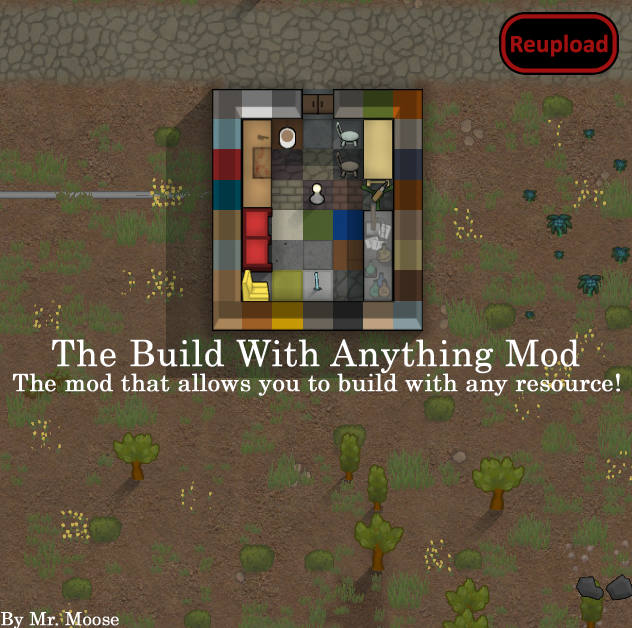
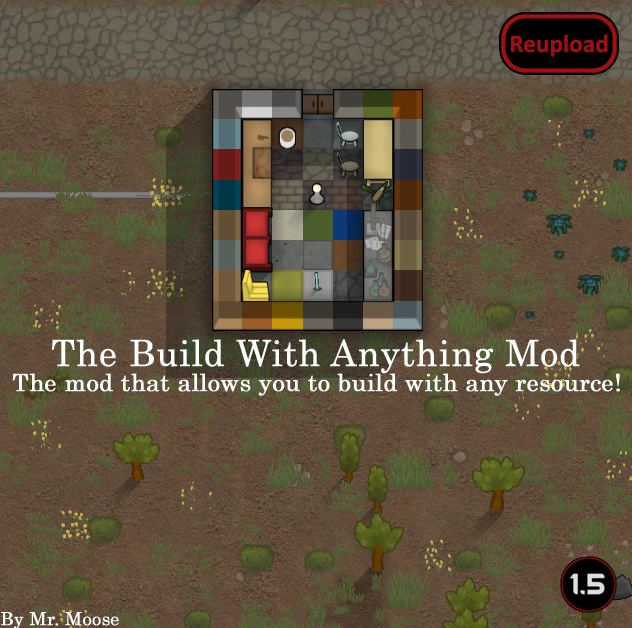
Mod updated for 1.5 and passed autotests

Changed region(s): [[0.8718, 0.8774, 0.9921, 0.9984]]

diff --git a/README.md b/README.md
@@ -28,11 +28,13 @@ Other than that, enjoy!
 
 -  See if the the error persists if you just have this mod and its requirements active.
 -  If not, try adding your other mods until it happens again.
--  Post your error-log using https://steamcommunity.com/workshop/filedetails/?id=818773962]HugsLib and command Ctrl+F12
+-  Post your error-log using https://steamcommunity.com/workshop/filedetails/?id=818773962]HugsLib or the standalone https://steamcommunity.com/sharedfiles/filedetails/?id=2873415404]Uploader and command Ctrl+F12
 -  For best support, please use the Discord-channel for error-reporting.
 -  Do not report errors by making a discussion-thread, I get no notification of that.
 -  If you have the solution for a problem, please post it to the GitHub repository.
+-  Use https://github.com/RimSort/RimSort/releases/latest]RimSort to sort your mods
 
 
 
+https://steamcommunity.com/sharedfiles/filedetails/changelog/2118025145]![Image](https://img.shields.io/github/v/release/emipa606/TheBuildWithAnythingMod?label=latest%20version&style=plastic&color=9f1111&labelColor=black)
 
